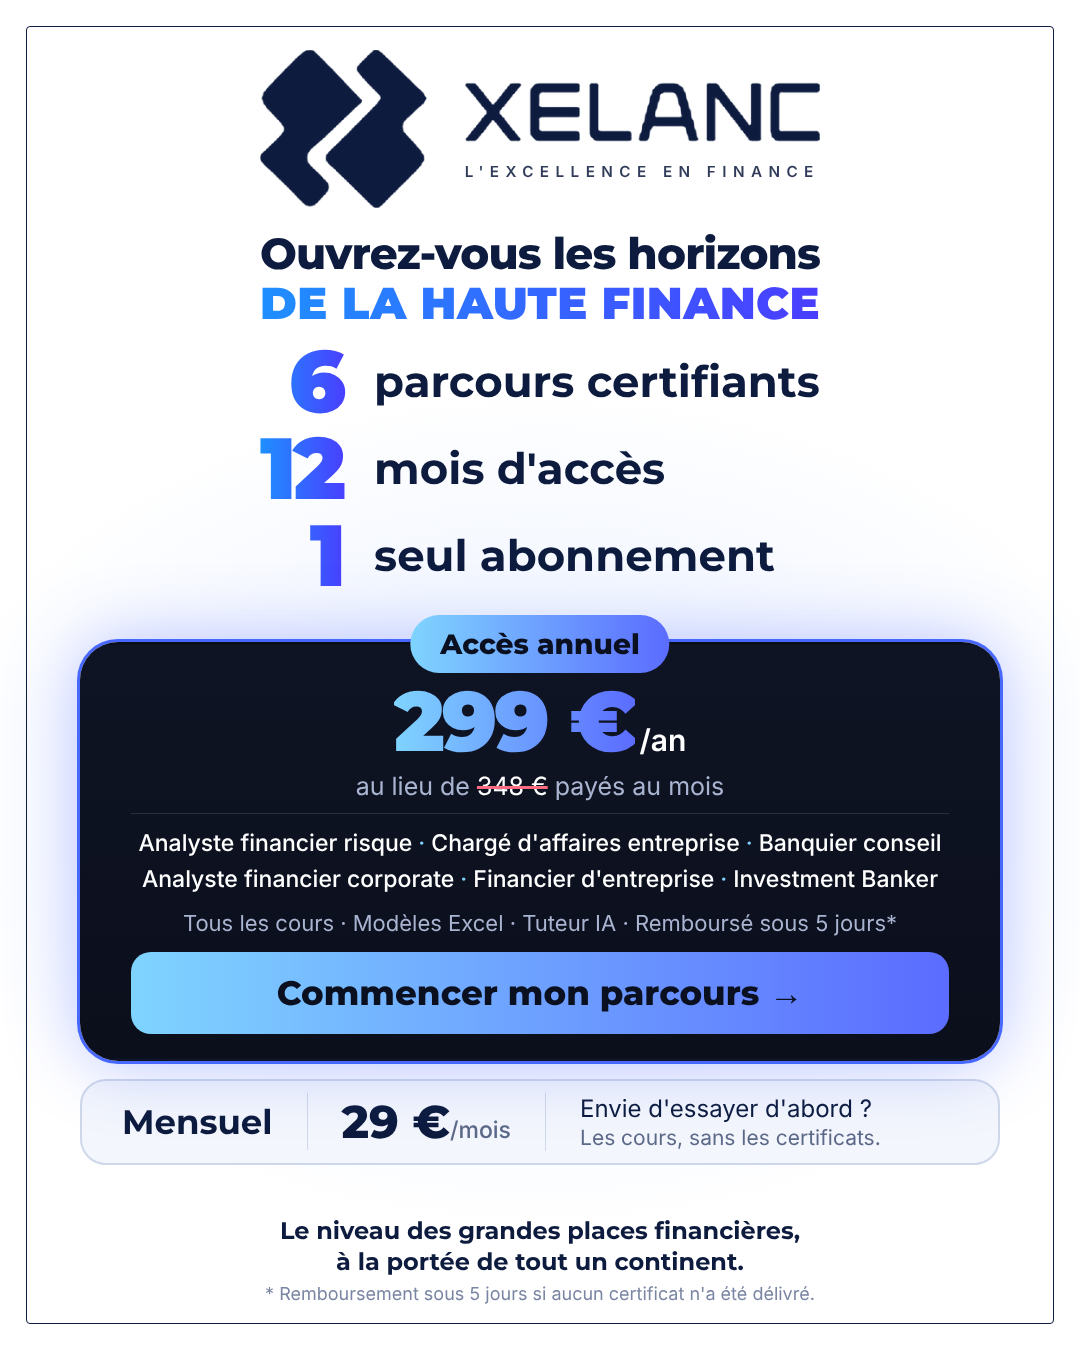
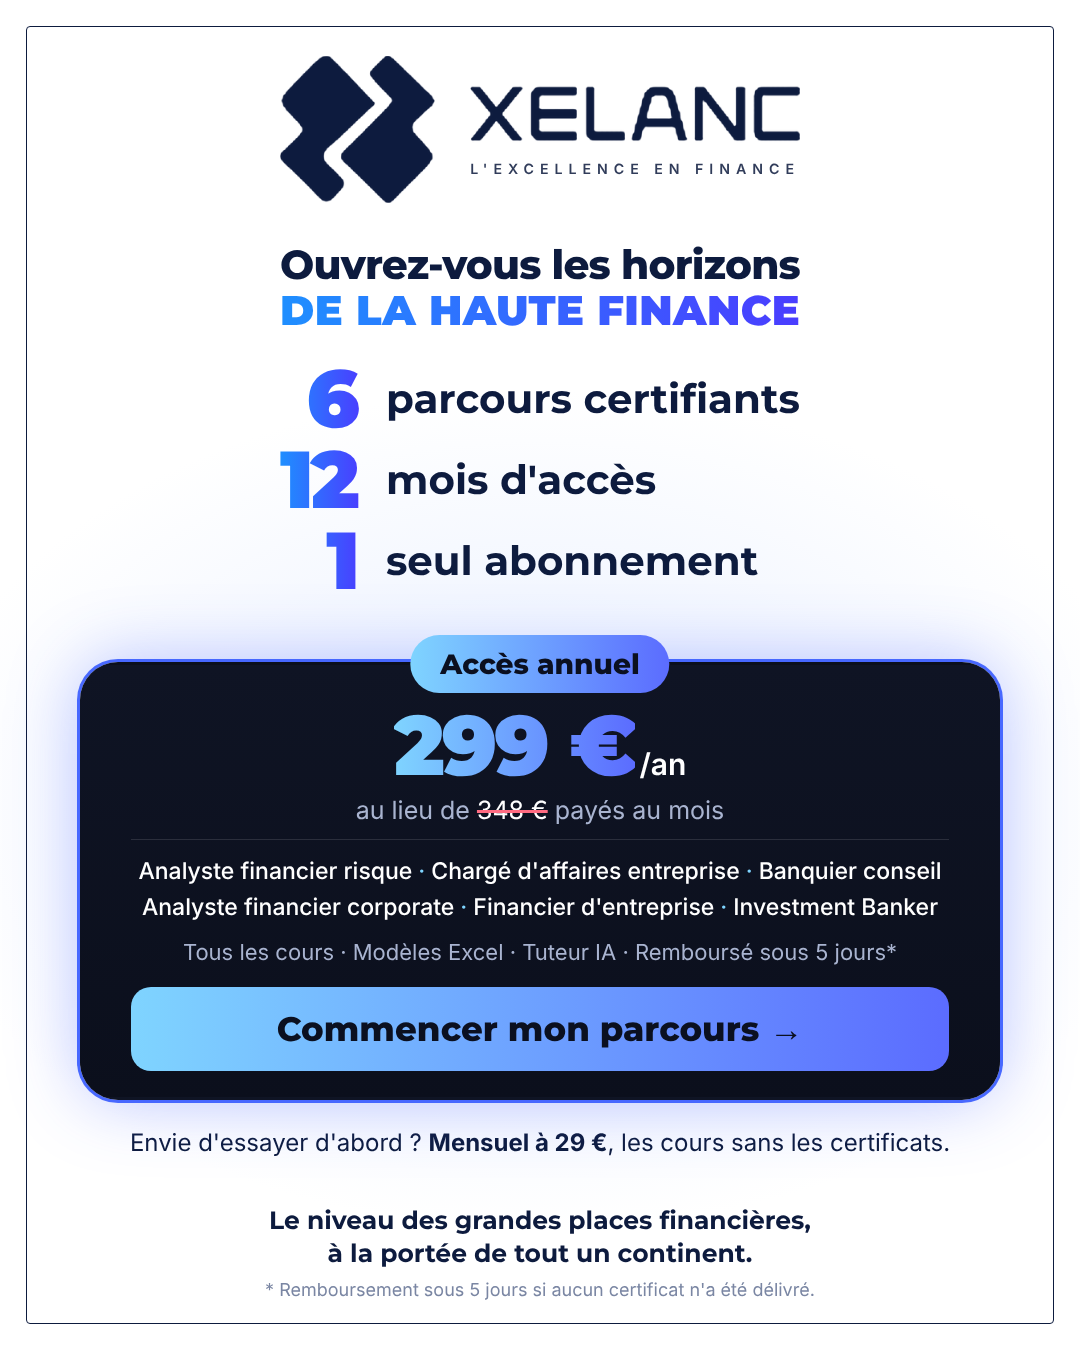
Aère le visuel maître aligné (gris et blanc)
Claude-Session: https://claude.ai/code/session_01LXovPUf4KLwN8kSMXa7eXm

Changed region(s): [[0.0611, 0.0311, 0.9472, 0.8711], [0.2444, 0.9022, 0.7639, 0.9644]]

diff --git a/excellence/ads/retargeting/src/style.css b/excellence/ads/retargeting/src/style.css
@@ -346,3 +346,22 @@ body.box { --W: 530px; padding-top: 50px; padding-bottom: 46px; }
 body.box { --W: 560px; }
 .center.compact.k.box .card { margin-top: 44px; }
 .center.compact.k.box .monthly { margin-top: 18px; }
+
+/* version aérée */
+body.box { --W: 520px; padding-top: 56px; padding-bottom: 50px; }
+.box .bx-l1 { margin-top: 44px; }
+.box .keys { margin-top: 30px; }
+.center.compact.k.box .card { margin-top: 72px; padding-top: 42px; padding-bottom: 30px; }
+.center.compact.k.box .rule { margin: 18px 0; }
+.center.compact.k.box .incl { margin-top: 14px; }
+.center.compact.k.box .cta { margin-top: 22px; padding: 21px 30px; }
+.alt { margin-top: 30px; font-size: 24px; color: var(--fg); }
+.alt b { font-weight: 700; }
+.center.compact.k.box .sign { margin-top: 0; font-size: 25px; }
+.center.compact.k.box .fine { margin-top: 10px; }
+.center.compact.k.box .card { margin-top: 62px; padding-top: 38px; padding-bottom: 26px; }
+.center.compact.k.box .rule { margin: 14px 0; }
+.box .bx-l1 { margin-top: 40px; }
+.box .keys { margin-top: 26px; }
+.alt { margin-top: 28px; }
+.center.compact.k.box .sign { margin-top: 30px; }

diff --git a/excellence/ads/retargeting/src/v1-box.html b/excellence/ads/retargeting/src/v1-box.html
@@ -26,11 +26,7 @@
     <div class="cta">Commencer mon parcours →</div>
   </div>
 
-  <div class="monthly">
-    <div class="m-name">Mensuel</div>
-    <div class="m-price">29&nbsp;€<span>/mois</span></div>
-    <div class="m-note">Envie d'essayer d'abord&nbsp;?<small>Les cours, sans les certificats.</small></div>
-  </div>
+  <p class="alt">Envie d'essayer d'abord&nbsp;? <b>Mensuel à 29&nbsp;€</b>, les cours sans les certificats.</p>
 
   <div class="spacer"></div>
   <p class="sign">Le niveau des grandes places financières,<br>à la portée de tout un continent.</p>
